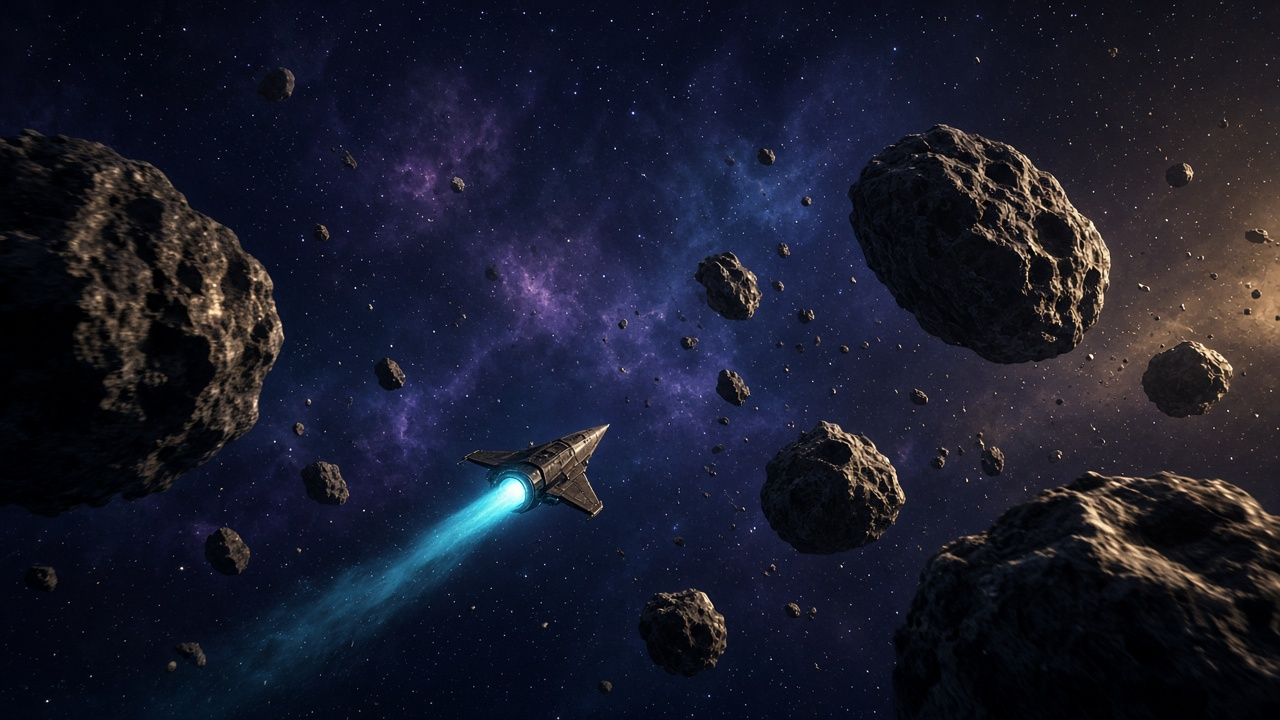
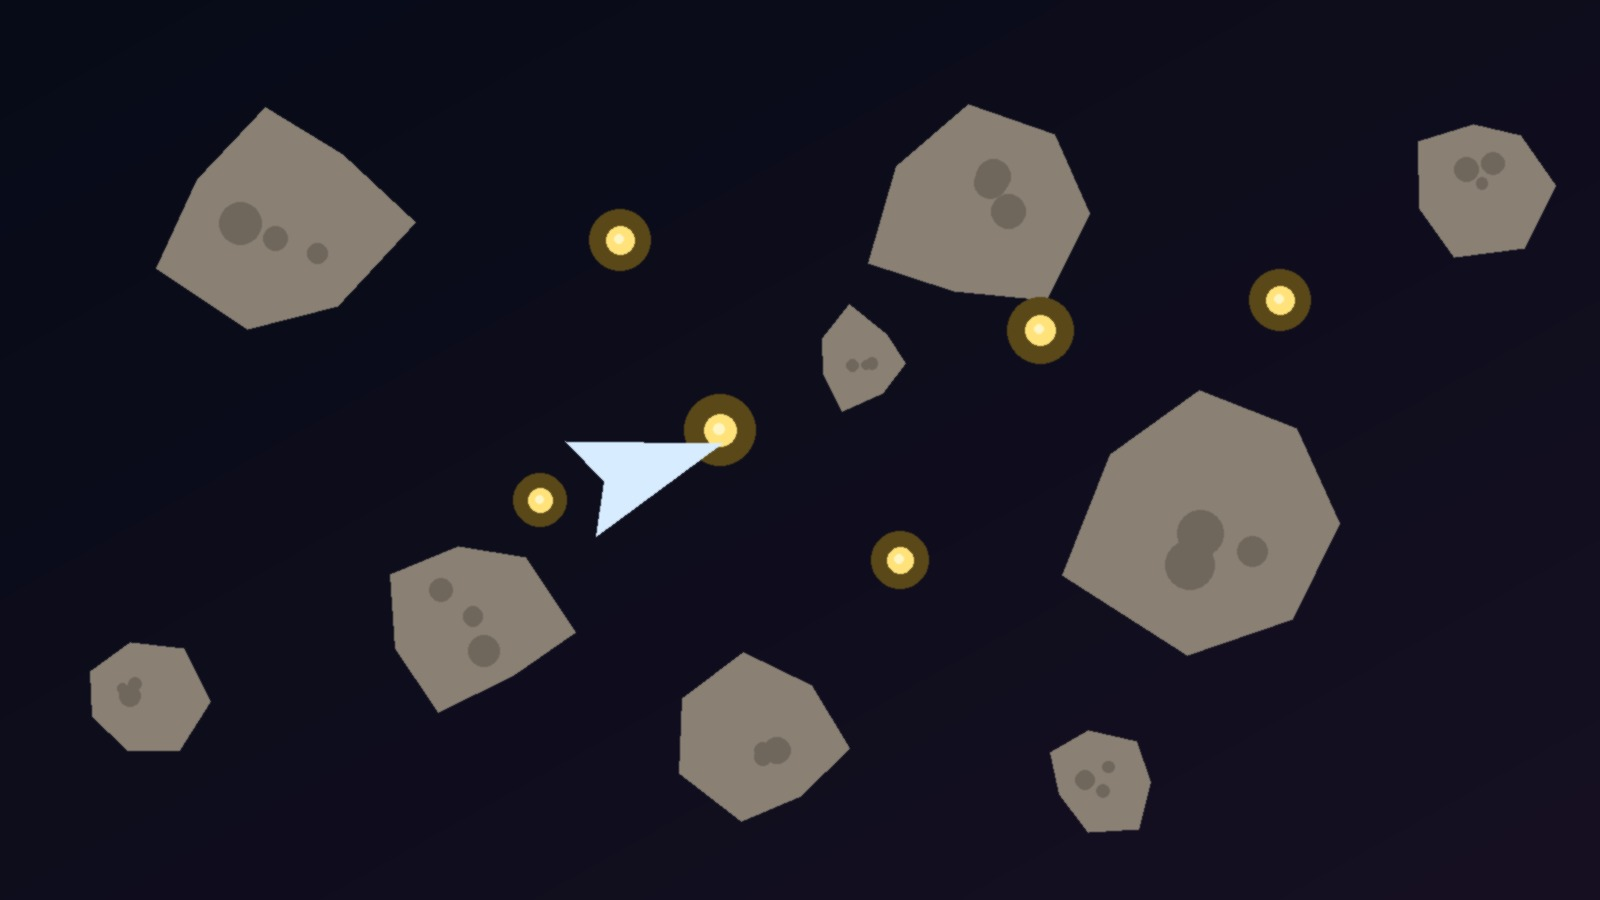
bug fixes

diff --git a/_sass/_custom.scss b/_sass/_custom.scss
@@ -56,10 +56,23 @@
   grid-column: 1 / -1;
 }
 
+body:has(.cv-page) > .container[role="main"] {
+  max-width: none;
+  width: 100%;
+  padding-left: 1.5rem;
+  padding-right: 1.5rem;
+}
+
+.cv-page,
+.cv-doc {
+  max-width: none;
+  width: 100%;
+}
+
 .cv-toolbar {
   display: flex;
   flex-wrap: wrap;
-  align-items: flex-end;
+  align-items: center;
   justify-content: space-between;
   gap: 0.75rem;
 }
@@ -67,18 +80,30 @@
 .cv-actions {
   display: flex;
   flex-wrap: wrap;
-  gap: 0.6rem;
-  margin: 0 0 0.5rem;
+  gap: 0.45rem;
+  margin: 0;
 }
 
-.cv-action-btn {
-  min-height: 2.5rem;
-  padding: 0.4rem 0.9rem;
+.cv-icon-btn {
+  display: inline-flex;
+  align-items: center;
+  justify-content: center;
+  width: 2.4rem;
+  height: 2.4rem;
+  padding: 0;
+  border: 1.5px solid var(--global-theme-color);
+  border-radius: 0.5rem;
+  color: var(--global-theme-color);
+  background: transparent;
+  text-decoration: none !important;
   cursor: pointer;
+  font-size: 1.05rem;
+  line-height: 1;
 }
 
-.cv-doc {
-  max-width: 52rem;
+.cv-icon-btn:hover {
+  background: var(--global-theme-color);
+  color: var(--global-bg-color);
 }
 
 .cv-doc-head {
@@ -274,20 +299,9 @@
 }
 
 .fx-popper {
-  width: 1.7rem;
-  height: 1.7rem;
+  width: 1.85rem;
+  height: 1.85rem;
   overflow: visible;
-}
-
-.fx-popper path,
-.fx-popper circle,
-.fx-popper rect {
-  fill: currentColor;
-}
-
-.fx-popper path[fill="none"] {
-  fill: none;
-  stroke: currentColor;
 }
 
 .fx-menu {

diff --git a/_tmp_cv_src/gen_game_art.py b/_tmp_cv_src/gen_game_art.py
@@ -1,0 +1,196 @@
+"""Generate Games-tab art that matches the on-site games."""
+from __future__ import annotations
+
+import math
+import random
+from pathlib import Path
+
+from PIL import Image, ImageDraw, ImageFilter, ImageFont
+
+OUT = Path(r"C:\CODE\Website\assets\img\games")
+OUT.mkdir(parents=True, exist_ok=True)
+W, H = 1600, 900
+
+
+def lerp(a, b, t):
+    return a + (b - a) * t
+
+
+def mix(c1, c2, t):
+    return tuple(int(lerp(a, b, t)) for a, b in zip(c1, c2))
+
+
+def draw_asteroids():
+    img = Image.new("RGB", (W, H), "#070b18")
+    px = img.load()
+    for y in range(H):
+        t = y / (H - 1)
+        x_bias = 0
+        for x in range(W):
+            u = (x / (W - 1) + t) / 2
+            col = mix((7, 11, 24), (22, 16, 34), u)
+            px[x, y] = col
+
+    rng = random.Random(7)
+    draw = ImageDraw.Draw(img)
+
+    def asteroid(cx, cy, r, seed):
+        local = random.Random(seed)
+        n = 7
+        pts = []
+        for i in range(n):
+            ang = (i / n) * math.tau + local.random() * 0.12
+            scale = 0.75 + local.random() * 0.45
+            pts.append((cx + math.cos(ang) * r * scale, cy + math.sin(ang) * r * scale))
+        draw.polygon(pts, fill="#8a8174")
+        # crater-ish darker patches like the canvas rocks
+        for _ in range(3):
+            ox = cx + local.uniform(-r * 0.35, r * 0.35)
+            oy = cy + local.uniform(-r * 0.35, r * 0.35)
+            rr = r * local.uniform(0.08, 0.18)
+            draw.ellipse((ox - rr, oy - rr, ox + rr, oy + rr), fill="#6f675c")
+
+    rocks = [
+        (280, 220, 120, 1),
+        (470, 620, 90, 2),
+        (980, 210, 110, 3),
+        (1220, 520, 150, 4),
+        (1480, 180, 70, 5),
+        (760, 740, 80, 6),
+        (140, 700, 60, 8),
+        (1100, 780, 55, 9),
+        (860, 360, 48, 10),
+    ]
+    for spec in rocks:
+        asteroid(*spec)
+
+    photons = [
+        (620, 240, 14),
+        (720, 430, 16),
+        (900, 560, 13),
+        (1040, 330, 15),
+        (540, 500, 12),
+        (1280, 300, 14),
+    ]
+    for x, y, r in photons:
+        draw.ellipse((x - r * 2.2, y - r * 2.2, x + r * 2.2, y + r * 2.2), fill="#5a4818")
+        draw.ellipse((x - r, y - r, x + r, y + r), fill="#ffe27a")
+        draw.ellipse((x - r * 0.4, y - r * 0.4, x + r * 0.25, y + r * 0.25), fill="#fff6c8")
+
+    # triangle ship, same silhouette as games.js, pointing up-right
+    cx, cy, a = 640, 470, math.radians(-18)
+    pts = [(14, 0), (-10, -8), (-6, 0), (-10, 8)]
+    scale = 6.2
+    world = []
+    for x, y in pts:
+        x, y = x * scale, y * scale
+        rx = cx + x * math.cos(a) - y * math.sin(a)
+        ry = cy + x * math.sin(a) + y * math.cos(a)
+        world.append((rx, ry))
+    draw.polygon(world, fill="#d7ecff")
+    # small engine notch shadow
+    img = img.filter(ImageFilter.SMOOTH)
+    img.save(OUT / "asteroids.jpg", "JPEG", quality=92, optimize=True)
+
+
+def rounded_rect(draw, box, r, fill, outline=None, width=1):
+    draw.rounded_rectangle(box, radius=r, fill=fill, outline=outline, width=width)
+
+
+def card(draw, x, y, w, h, rank, suit, back=False, angle=0, img=None):
+    face = Image.new("RGBA", (w, h), (0, 0, 0, 0))
+    d = ImageDraw.Draw(face)
+    if back:
+        rounded_rect(d, (0, 0, w - 1, h - 1), 12, fill="#1f3d73", outline="#d8c07a", width=3)
+        rounded_rect(d, (10, 10, w - 11, h - 11), 8, fill="#274a8a", outline="#d8c07a", width=2)
+        for i in range(4):
+            for j in range(6):
+                cx = 22 + i * ((w - 44) / 3)
+                cy = 22 + j * ((h - 44) / 5)
+                d.ellipse((cx - 5, cy - 5, cx + 5, cy + 5), outline="#d8c07a")
+    else:
+        color = "#c1121f" if suit in "♥♦" else "#111111"
+        rounded_rect(d, (0, 0, w - 1, h - 1), 12, fill="#f7f4ea", outline="#2b2b2b", width=2)
+        try:
+            font_lg = ImageFont.truetype("arial.ttf", int(h * 0.28))
+            font_sm = ImageFont.truetype("arial.ttf", int(h * 0.18))
+            font_suit = ImageFont.truetype("seguisym.ttf", int(h * 0.22))
+        except OSError:
+            font_lg = ImageFont.load_default()
+            font_sm = font_lg
+            font_suit = font_lg
+        d.text((10, 6), rank, fill=color, font=font_lg)
+        d.text((12, 8 + h * 0.26), suit, fill=color, font=font_suit)
+        d.text((w / 2 - 12, h / 2 - 16), suit, fill=color, font=font_suit)
+
+    if angle:
+        face = face.rotate(angle, expand=True, resample=Image.Resampling.BICUBIC)
+    if img is None:
+        return face
+    img.alpha_composite(face, (int(x - face.width / 2), int(y - face.height / 2)))
+    return face
+
+
+def fan(img, cx, cy, n, spread, y_arc, back=True, faces=None):
+    for i in range(n):
+        t = i / max(n - 1, 1)
+        ang = -spread / 2 + t * spread
+        x = cx + math.sin(math.radians(ang)) * 70
+        y = cy + abs(math.sin(math.radians(ang))) * y_arc
+        if back:
+            card(ImageDraw.Draw(img), x, y, 92, 132, "", "", back=True, angle=ang, img=img)
+        else:
+            rank, suit = faces[i]
+            card(ImageDraw.Draw(img), x, y, 108, 154, rank, suit, angle=ang * 0.6, img=img)
+
+
+def draw_solo():
+    img = Image.new("RGBA", (W, H), "#14532d")
+    draw = ImageDraw.Draw(img)
+    # table felt
+    for y in range(H):
+        shade = int(12 * math.sin(y / 70))
+        draw.line([(0, y), (W, y)], fill=(18 + shade, 84 + shade // 2, 42))
+    # inner table
+    draw.ellipse((90, 40, W - 90, H - 40), fill="#166534", outline="#0f3d24", width=10)
+    draw.ellipse((120, 62, W - 120, H - 62), outline="#4ade80", width=3)
+
+    # score chip like the real game's 26-point rule
+    rounded_rect(draw, (W / 2 - 70, 86, W / 2 + 70, 132), 18, fill="#052e16", outline="#bbf7d0", width=2)
+    try:
+        font = ImageFont.truetype("arial.ttf", 28)
+        font_sm = ImageFont.truetype("arial.ttf", 16)
+    except OSError:
+        font = ImageFont.load_default()
+        font_sm = font
+    draw.text((W / 2, 109), "26 to lose", fill="#dcfce7", font=font_sm, anchor="mm")
+
+    # opponent hands (card backs)
+    fan(img, W / 2, 210, 6, 46, 18, back=True)
+    fan(img, 250, 430, 5, 40, 10, back=True)
+    fan(img, W - 250, 430, 5, 40, 10, back=True)
+
+    # center trick: 4 face-up cards, 32-card deck ranks
+    trick = [("J", "♠"), ("A", "♥"), ("K", "♣"), ("9", "♦")]
+    offsets = [(-70, -28, -18), (18, -46, 8), (-24, 22, -6), (78, 8, 16)]
+    for (rank, suit), (dx, dy, ang) in zip(trick, offsets):
+        card(draw, W / 2 + dx, 430 + dy, 150, 214, rank, suit, angle=ang, img=img)
+
+    # player hand along the bottom
+    hand = [("7", "♦"), ("9", "♥"), ("J", "♣"), ("Q", "♠"), ("K", "♥"), ("A", "♠")]
+    n = len(hand)
+    for i, (rank, suit) in enumerate(hand):
+        t = i / (n - 1)
+        ang = -16 + t * 32
+        x = 430 + i * 125
+        y = 730 - abs(i - 2.5) * 8
+        card(draw, x, y, 168, 236, rank, suit, angle=ang, img=img)
+
+    rgb = img.convert("RGB")
+    rgb.save(OUT / "solo.jpg", "JPEG", quality=92, optimize=True)
+
+
+if __name__ == "__main__":
+    draw_asteroids()
+    draw_solo()
+    print("wrote", OUT / "asteroids.jpg", OUT / "solo.jpg")

diff --git a/FAQ.md b/FAQ.md
@@ -78,7 +78,7 @@ You need to [create a personal access token](https://docs.github.com/en/authenti
 
 We implemented support for [Prettier code formatting](https://prettier.io/) in [#2048](https://github.com/alshedivat/al-folio/pull/2048). It basically ensures that your code is [well formatted](https://prettier.io/docs/en/). If you want to ensure your code is compliant with `Prettier`, you have a few options:
 
-- if you are running locally with `Docker` and using [development containers](https://github.com/alshedivat/al-folio/blob/main/INSTALL.md#local-setup-with-development-containers), `Prettier` is already included
+- if you are running locally with `Docker` and using [development containers](INSTALL.md#local-setup-with-development-containers), `Prettier` is already included
 - if you don't use `Docker`, it is simple to integrate it with your preferred IDE using an [extension](https://prettier.io/docs/en/editors)
 - if you want to run it manually, you can follow the first 2 steps in [this tutorial](https://george-gca.github.io/blog/2023/slidev_for_non_web_devs/) (`Installing node version manager (nvm)` and `Installing Node (latest version)`), then, install it using `npm install prettier` inside the project directory, or install it globally on your computer using `npm install -g prettier`. To run `Prettier` on your current directory use `npx prettier . --write`.
 
@@ -134,6 +134,6 @@ Currently we have the following workflows:
 - `deploy-image.yml`: deploys a new docker image with the latest changes to Docker Hub
 - `deploy.yml`: deploys the website to GitHub Pages
 - `docker-slim.yml`: deploys a smaller version of the docker image to Docker Hub with the [docker-slim-action](https://github.com/kitabisa/docker-slim-action)
-- `lighthouse-badger.yml`: runs a [lighthouse](https://github.com/GoogleChrome/lighthouse) test for your site with the [lighthouse-badger-action](https://github.com/MyActionWay/lighthouse-badger-action), saving the results in the repository for easy inspecting, as can be seen [here](https://github.com/alshedivat/al-folio?tab=readme-ov-file#lighthouse-pagespeed-insights). For more information on how to enable this workflow, check our [FAQ question about it](https://github.com/alshedivat/al-folio/blob/main/FAQ.md#when-i-manually-run-the-lighthouse-badger-workflow-it-fails-with-error-input-required-and-not-supplied-token-how-do-i-fix-that)
+- `lighthouse-badger.yml`: runs a [lighthouse](https://github.com/GoogleChrome/lighthouse) test for your site with the [lighthouse-badger-action](https://github.com/MyActionWay/lighthouse-badger-action), saving the results in the repository for easy inspecting, as can be seen [here](https://github.com/alshedivat/al-folio?tab=readme-ov-file#lighthouse-pagespeed-insights). For more information on how to enable this workflow, check our [FAQ question about it](#when-i-manually-run-the-lighthouse-badger-workflow-it-fails-with-error-input-required-and-not-supplied-token-how-do-i-fix-that)
 - `prettier-comment-on-pr.yml`: not working. For now, this action is disabled. It was supposed to run prettier on the PRs and comment on them with the changes needed. For more information, check [issue 2115](https://github.com/alshedivat/al-folio/issues/2115)
-- `prettier.yml`: runs [prettier](https://prettier.io/) on the code to ensure it is well formatted. For more information, check our [FAQ question about it](https://github.com/alshedivat/al-folio/blob/main/FAQ.md#my-code-runs-fine-locally-but-when-i-create-a-commit-and-submit-it-it-fails-with-prettier-code-formatter-workflow-run-failed-for-main-branch-how-do-i-fix-that)
+- `prettier.yml`: runs [prettier](https://prettier.io/) on the code to ensure it is well formatted. For more information, check our [FAQ question about it](#my-code-runs-fine-locally-but-when-i-create-a-commit-and-submit-it-it-fails-with-prettier-code-formatter-workflow-run-failed-for-main-branch-how-do-i-fix-that)

diff --git a/_posts/2023-05-12-custom-blockquotes.md b/_posts/2023-05-12-custom-blockquotes.md
@@ -11,7 +11,7 @@ related_posts: true
 
 This post shows how to add custom styles for blockquotes. Based on [jekyll-gitbook](https://github.com/sighingnow/jekyll-gitbook) implementation.
 
-We decided to support the same custom blockquotes as in [jekyll-gitbook](https://sighingnow.github.io/jekyll-gitbook/jekyll/2022-06-30-tips_warnings_dangers.html), which are also found in a lot of other sites' styles. The styles definitions can be found on the [\_base.scss](https://github.com/alshedivat/al-folio/blob/main/_sass/_base.scss) file, more specifically:
+We decided to support the same custom blockquotes as in [jekyll-gitbook](https://sighingnow.github.io/jekyll-gitbook/jekyll/2022-06-30-tips_warnings_dangers.html), which are also found in a lot of other sites' styles. The styles definitions can be found in `_sass/_base.scss`, more specifically:
 
 ```scss
 /* Tips, warnings, and dangers */

diff --git a/_pages/games_asteroids.md b/_pages/games_asteroids.md
@@ -7,9 +7,4 @@ nav: false
 
 Move with the mouse. Collect the bright photons and dodge the asteroids.
 
-<canvas id="photon-game" width="960" height="420" aria-label="Asteroids game"></canvas>
-<p class="game-status" id="photon-status">Score 0</p>
-<p class="no-print"><a class="home-nav-btn game-reset" href="{{ '/games/' | relative_url }}">All games</a>
-<button type="button" class="home-nav-btn game-reset" id="photon-reset">Play again</button></p>
-
-<script defer src="{{ '/assets/js/games.js' | relative_url | bust_file_cache }}"></script>
+{% include games_asteroids.liquid %}

diff --git a/_pages/games.md b/_pages/games.md
@@ -6,11 +6,4 @@ nav: true
 nav_order: 7
 ---
 
-<div class="game-nav-grid" aria-label="Games">
-  <a class="game-card" href="{{ '/games/asteroids/' | relative_url }}" style="background-image: url('{{ '/assets/img/games/asteroids.jpg' | relative_url }}');">
-    <span class="game-card-label">Asteroids</span>
-  </a>
-  <a class="game-card" href="{{ '/games/solo/' | relative_url }}" style="background-image: url('{{ '/assets/img/games/solo.jpg' | relative_url }}');">
-    <span class="game-card-label">Solo</span>
-  </a>
-</div>
+{% include games_hub.liquid %}

diff --git a/_pages/games_solo.md b/_pages/games_solo.md
@@ -5,7 +5,7 @@ title: Solo
 nav: false
 ---
 
-<p class="no-print"><a class="home-nav-btn game-reset" href="{{ '/games/' | relative_url }}">All games</a></p>
+{% include games_back.liquid %}
 
 **Solo** is a trick-taking card game for 4–6 players using a 32-card deck (7–Ace). There is no single winner: the last player to reach 26 points is the loser. Hands are bid, then played with trump, partners, and “going through.”
 

diff --git a/_projects/3_project.md b/_projects/3_project.md
@@ -3,7 +3,7 @@ layout: page
 title: project 3 with very long name
 description: a project that redirects to another website
 img: assets/img/7.jpg
-redirect: https://unsplash.com
+published: false
 importance: 3
 category: work
 ---
